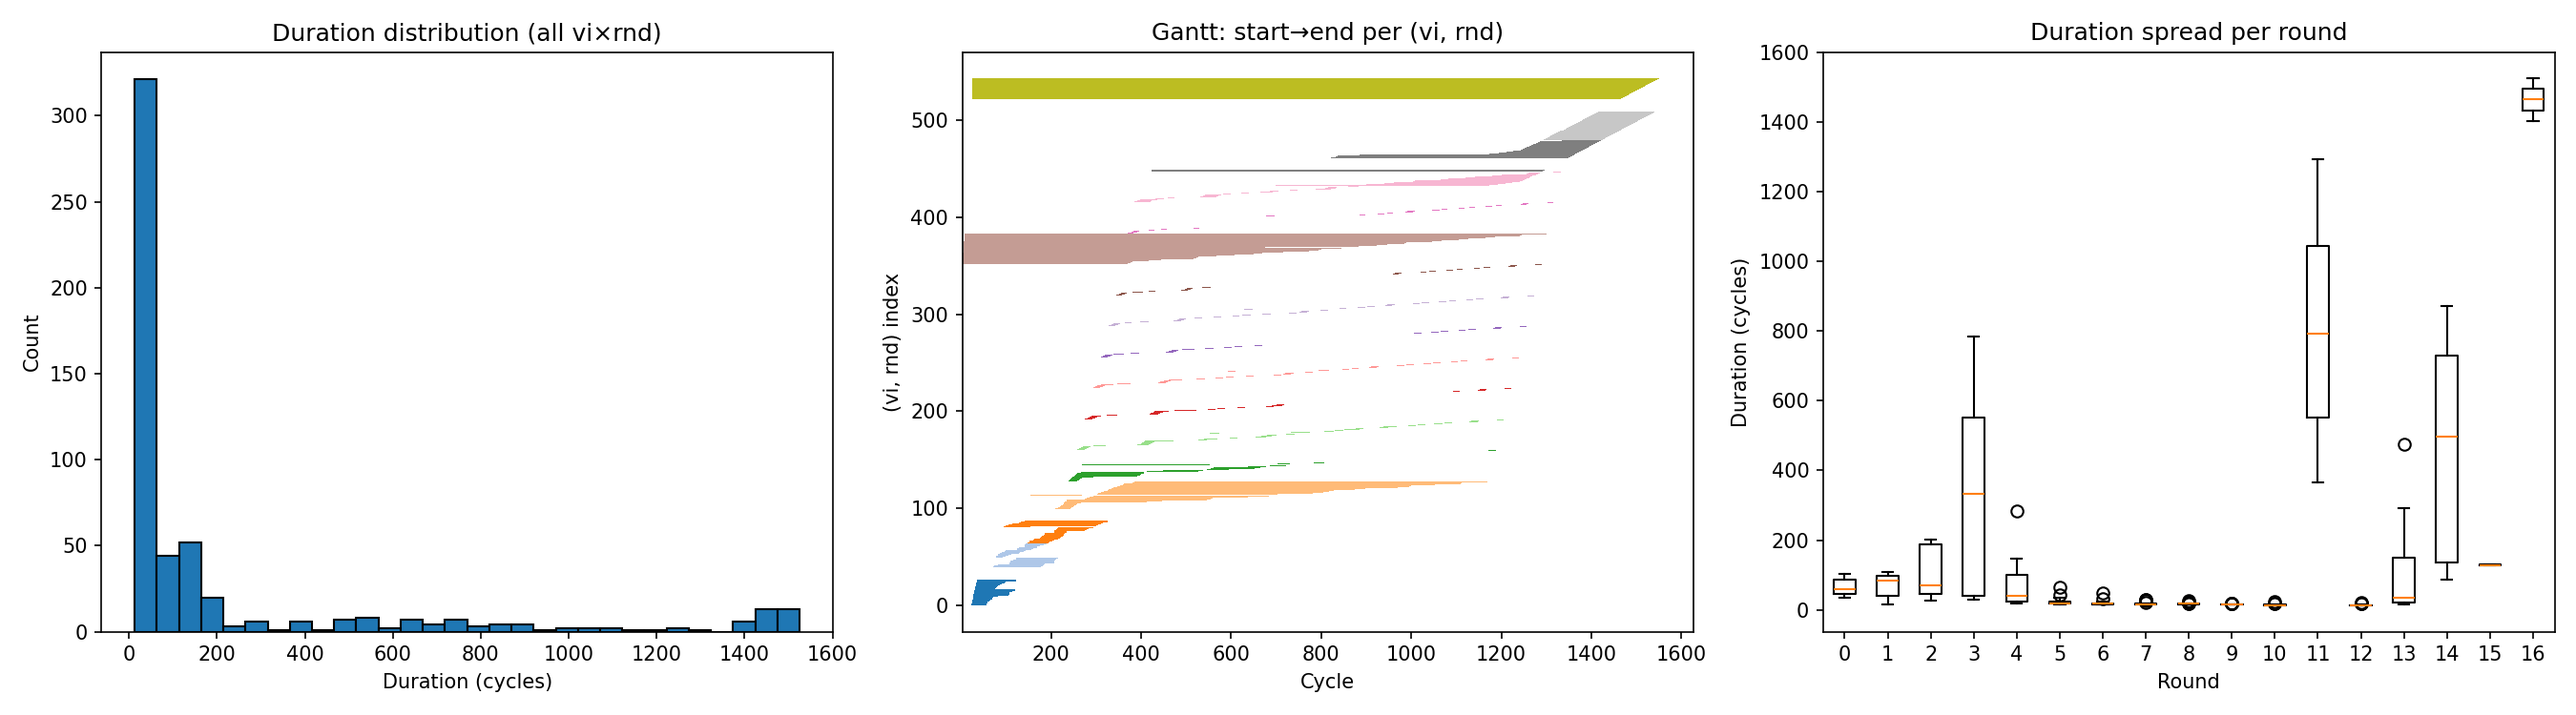
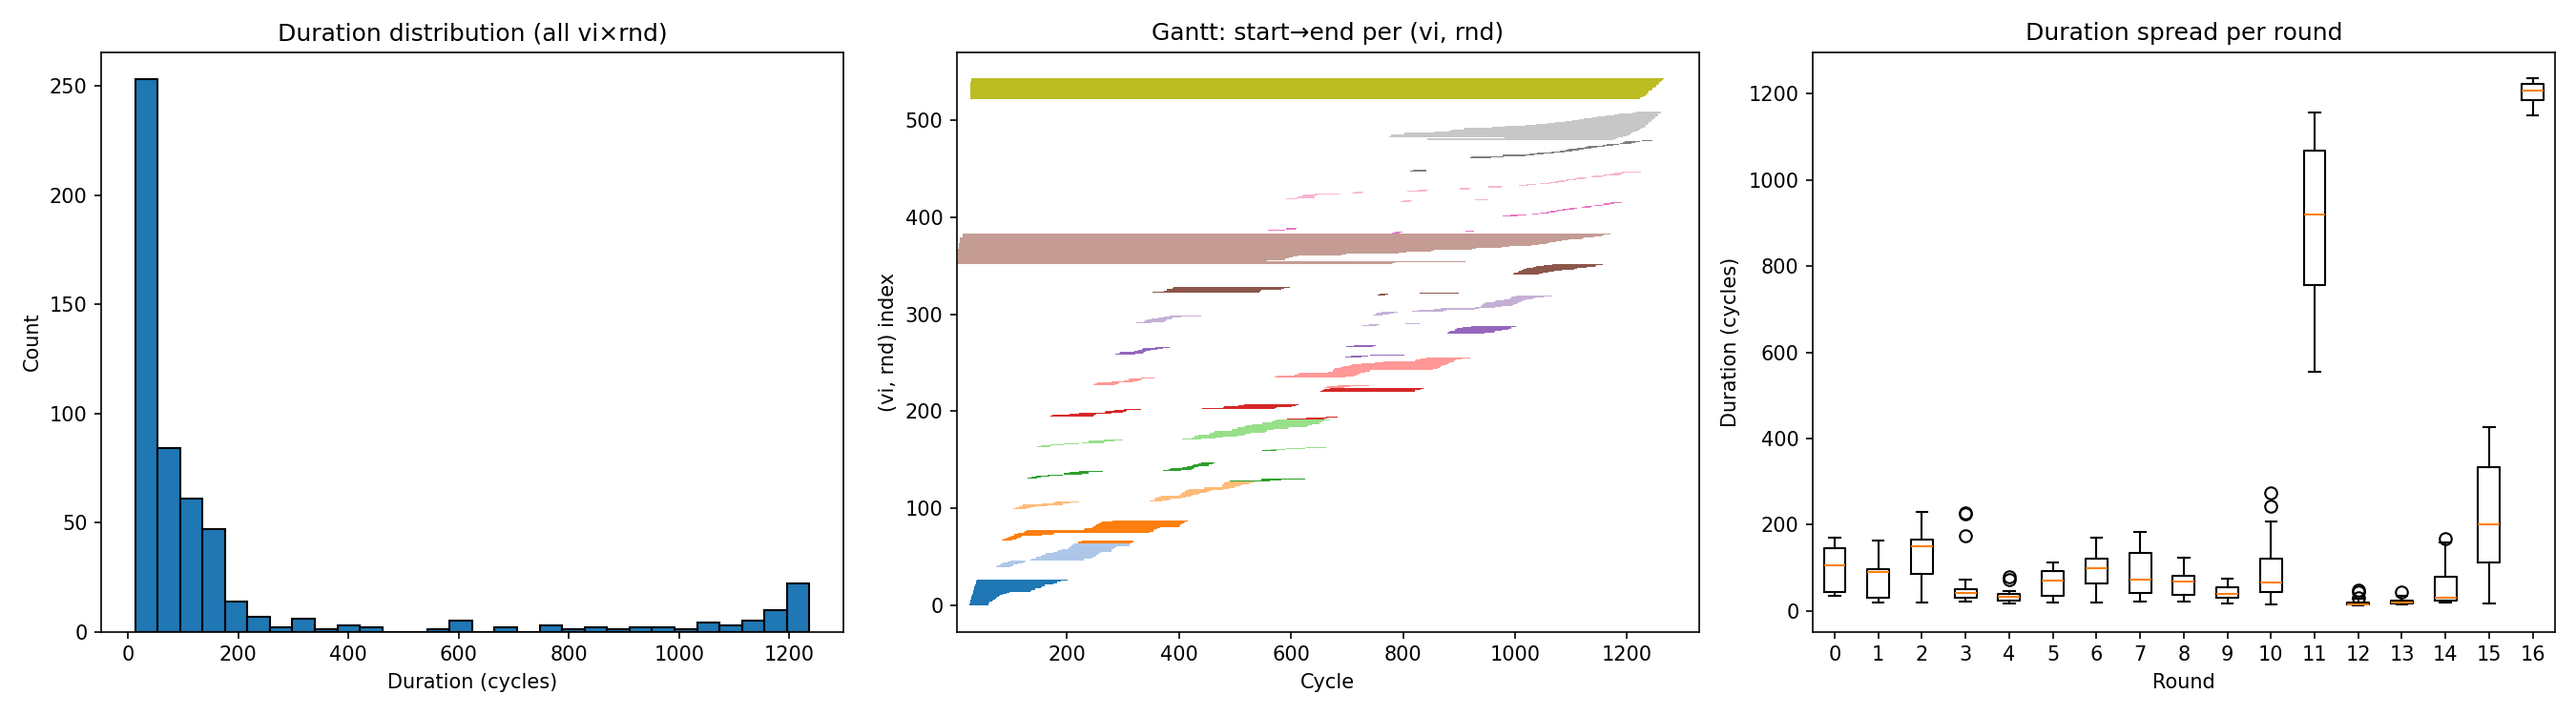
experiment (it sucks)

diff --git a/perf_takehome.py b/perf_takehome.py
@@ -313,6 +313,66 @@ def schedule(slots, slot_limits, allocator, tags=None):
     dist_to_load, dist_to_flow, dist_to_either = compute_distances(slots, predecessors)
     remaining_uses = compute_use_counts(slot_uses)
 
+    # === Active set management ===
+    MAX_ACTIVE = 32
+    TARGET_GATHER = 3  # target vectors working toward gathers
+    TARGET_MUX = 2     # target vectors working toward mux/vselects
+
+    # Extract per-op vector/round info from tags
+    op_vi = [-1] * n
+    op_rnd = [-1] * n
+    ops_per_vi_rnd = defaultdict(list)
+    vi_rounds = defaultdict(set)
+
+    if tags:
+        for i in range(n):
+            tag = tags[i] if i < len(tags) else None
+            if tag:
+                vi = tag.get('vi', -1)
+                rnd = tag.get('rnd', -1)
+                op_vi[i] = vi
+                op_rnd[i] = rnd
+                if vi >= 0:
+                    vi_rounds[vi].add(rnd)
+                    ops_per_vi_rnd[(vi, rnd)].append(i)
+
+    all_vectors = sorted(vi_rounds.keys())
+    has_vectors = len(all_vectors) > 0
+
+    # Yield type: what bottleneck resource does each (vi, rnd) consume?
+    round_yield_type = {}
+    for (vi, rnd), op_indices in ops_per_vi_rnd.items():
+        if rnd < 0:  # setup ops (initial loads)
+            round_yield_type[(vi, rnd)] = "free"
+            continue
+        has_gather = any(slots[i][0] == "load" and slots[i][1][0] == "load_offset"
+                        for i in op_indices)
+        has_mux = any(slots[i][0] == "flow" and slots[i][1][0] == "vselect"
+                      for i in op_indices)
+        if has_gather:
+            round_yield_type[(vi, rnd)] = "load"
+        elif has_mux:
+            round_yield_type[(vi, rnd)] = "flow"
+        else:
+            round_yield_type[(vi, rnd)] = "free"
+
+    # Active set: first MAX_ACTIVE vectors
+    if has_vectors:
+        active_set = set(all_vectors[:MAX_ACTIVE])
+        inactive_queue = list(all_vectors[MAX_ACTIVE:])
+    else:
+        active_set = set()
+        inactive_queue = []
+
+    # Per-vector round tracking
+    total_ops_per_vi_rnd = {k: len(v) for k, v in ops_per_vi_rnd.items()}
+    scheduled_per_vi_rnd = defaultdict(int)
+    vector_current_round = {}
+    for vi in all_vectors:
+        vector_current_round[vi] = min(vi_rounds[vi])
+
+    vector_priority = {}  # vi -> priority (0=boost, 1=normal)
+
     # --- Metadata helpers (for tracing) ---
 
     def op_desc(i):
@@ -372,10 +432,12 @@ def schedule(slots, slot_limits, allocator, tags=None):
 
     # --- Scheduling state ---
 
-    active_dist = dist_to_either
+    active_dist = dist_to_either  # default, updated each cycle
 
     def sched_key(i):
-        return (active_dist[i], sort_key(i), i)
+        vi = op_vi[i]
+        vp = vector_priority.get(vi, 1) if vi >= 0 else 1
+        return (vp, active_dist[i], sort_key(i), i)
 
     ready = sorted([i for i in range(n) if in_degree[i] == 0], key=sched_key)
     bundles = []
@@ -447,7 +509,37 @@ def schedule(slots, slot_limits, allocator, tags=None):
                 op_scheduled_cycle[i] = cycle_num
                 pending_frees.extend(consume_uses(i))
 
-        # Adapt priority heuristic: feed whichever bottleneck engine is starved
+        # Compute vector priorities based on composition target
+        if has_vectors:
+            n_toward_loads = 0
+            n_toward_flows = 0
+            for vi in active_set:
+                crnd = vector_current_round.get(vi)
+                if crnd is None:
+                    continue
+                yt = round_yield_type.get((vi, crnd), "free")
+                if yt == "load":
+                    n_toward_loads += 1
+                elif yt == "flow":
+                    n_toward_flows += 1
+
+            vector_priority.clear()
+            load_deficit = TARGET_GATHER - n_toward_loads
+            flow_deficit = TARGET_MUX - n_toward_flows
+            for vi in active_set:
+                crnd = vector_current_round.get(vi)
+                if crnd is None:
+                    vector_priority[vi] = 1
+                    continue
+                yt = round_yield_type.get((vi, crnd), "free")
+                if yt == "load" and load_deficit > 0:
+                    vector_priority[vi] = 0  # urgently needed
+                elif yt == "flow" and flow_deficit > 0:
+                    vector_priority[vi] = 0
+                else:
+                    vector_priority[vi] = 1  # normal
+
+        # Original adaptive heuristic: bias toward starved resource
         n_ready_loads = sum(1 for i in ready if slots[i][0] == "load")
         n_ready_flows = sum(1 for i in ready if slots[i][0] == "flow")
         load_starved = n_ready_loads < slot_limits.get("load", 2)
@@ -458,10 +550,17 @@ def schedule(slots, slot_limits, allocator, tags=None):
             active_dist = dist_to_flow
         else:
             active_dist = dist_to_either
+
         ready.sort(key=sched_key)
 
         # Schedule ready ops
         for i in ready:
+            # Active set gating: skip ops for inactive vectors
+            vi_i = op_vi[i]
+            if vi_i >= 0 and vi_i not in active_set:
+                remaining.append(i)
+                continue
+
             engine = slots[i][0]
 
             if engine == "flex_alu_add":
@@ -531,6 +630,31 @@ def schedule(slots, slot_limits, allocator, tags=None):
                     newly_ready.append(succ)
                     ready_cycle[succ] = cycle_num + 1
 
+        # Track per-vector round completion and active set transitions
+        if has_vectors:
+            for i in scheduled_this_cycle:
+                vi_s = op_vi[i]
+                rnd_s = op_rnd[i]
+                if vi_s < 0:
+                    continue
+                key = (vi_s, rnd_s)
+                if key in total_ops_per_vi_rnd:
+                    scheduled_per_vi_rnd[key] += 1
+                    if scheduled_per_vi_rnd[key] >= total_ops_per_vi_rnd[key]:
+                        # (vi, rnd) complete — advance vector to next round
+                        next_rounds = sorted(
+                            r for r in vi_rounds[vi_s]
+                            if scheduled_per_vi_rnd[(vi_s, r)] < total_ops_per_vi_rnd.get((vi_s, r), 0)
+                        )
+                        if next_rounds:
+                            vector_current_round[vi_s] = next_rounds[0]
+                        else:
+                            # Vector fully complete — swap in next inactive vector
+                            active_set.discard(vi_s)
+                            if inactive_queue:
+                                new_vi = inactive_queue.pop(0)
+                                active_set.add(new_vi)
+
         ready = sorted(remaining + newly_ready, key=sched_key)
         if bundle:
             bundles.append(bundle)
@@ -544,6 +668,9 @@ def schedule(slots, slot_limits, allocator, tags=None):
             break
 
     print(f"Scheduler: {cycle_num} cycles, {n} ops, stalls: slot_full={stall_slot}, alloc_fail={stall_alloc}")
+    if has_vectors:
+        print(f"  Active set: max={MAX_ACTIVE}, target_gather={TARGET_GATHER}, target_mux={TARGET_MUX}")
+        print(f"  Vectors: {len(all_vectors)} total, {len(inactive_queue)} remaining inactive")
     return bundles, sched_meta
 
 
